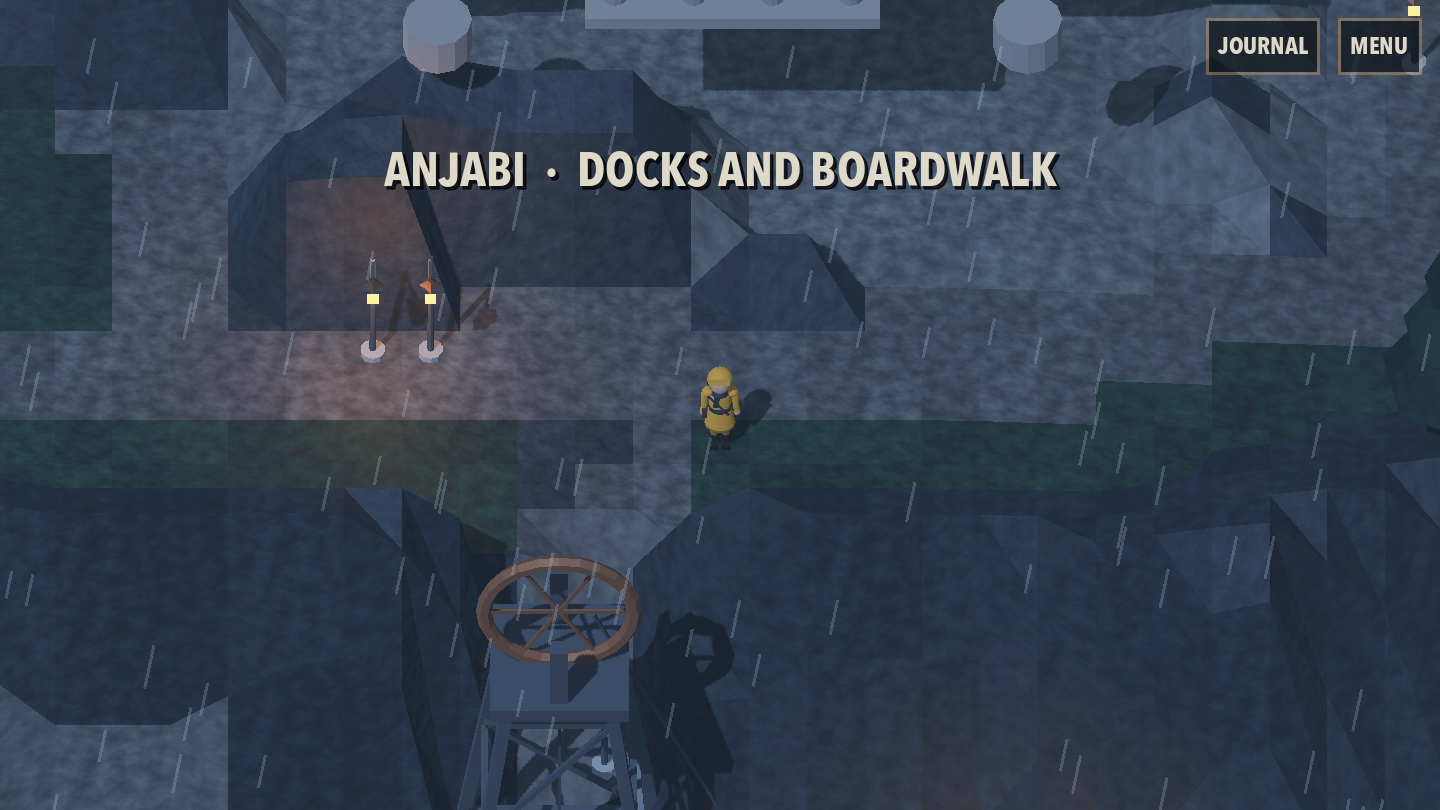
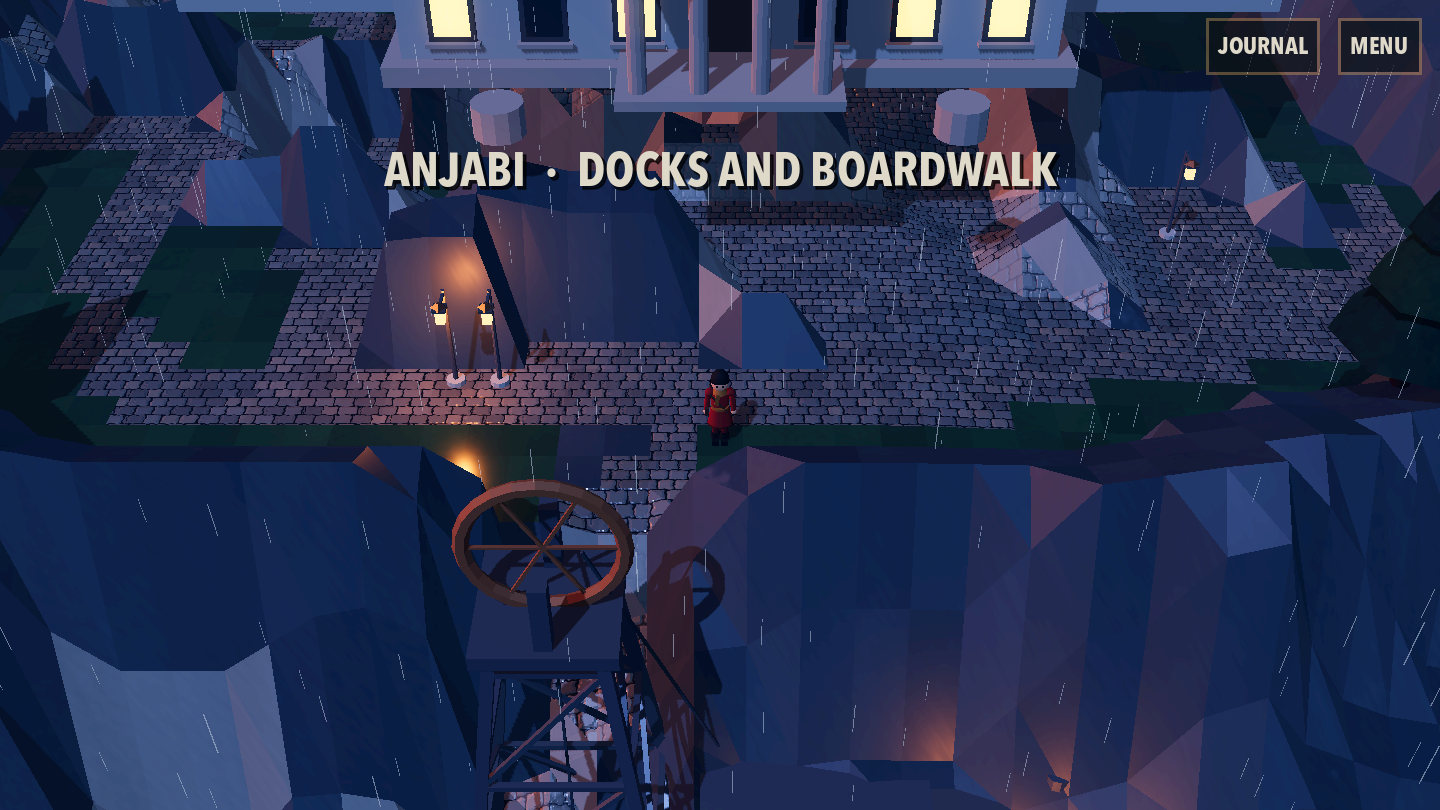
Aesthetic pass 1: perspective camera, wet cobble shader, 3D rain, lighting
Also commits the macOS export preset.

diff --git a/PROJECT_LOG.md b/PROJECT_LOG.md
@@ -365,3 +365,23 @@ Verified in a desktop browser: boots on the Steps, no console errors, drag-to-st
 Play on a phone on the same Wi-Fi: `cd export/web && python3 -m http.server 8000`, then open
 `http://<this Mac's address>:8000` in Safari. Not yet verified on an iPhone.
 
+## AAA aesthetic passes (2026-11-15)
+Target: the director's concept map (layout) and the "Anjabi gameplay" key art (look):
+rain-soaked cobbles mirroring warm lamps, weathered riveted metal, Quonset pods, a domed
+tavern with arched windows and banners, cable tram, foliage and flowers, warm interiors
+against a cold storm.
+
+### Pass 1 — camera, shading, weather, light
+- Camera: narrow-lens perspective (FOV 32, pitch 40, 30 m) replaces orthographic; still
+  fixed orientation. Shows facades like the key art.
+- `art/shaders/wet_ground.gdshader`: world-space procedural cobblestones (staggered,
+  warped, varying width, rounded, mortar joints, per-stone tint), wetness, puddles that
+  pool in joints and go mirror-smooth, bump via surface gradient. Used by paving, mud,
+  gravel, moss and the town terrain (vertex colour + alpha = cobble amount).
+- `art_provisional/rain_3d.gd`: GPU particle rain streaks around the player in world
+  space; the 2D rain and mist overlays are hidden on 3D maps.
+- Lighting: ACES tonemap, softlight glow, colour adjustment; cool moonlight with shadows
+  plus a warm low western afterglow light; warmer, stronger lamp lights; once-baked
+  reflection probes over the Steps and the mine yard so wet ground catches lamps.
+- Player recoloured to the key art's burgundy coat.
+
